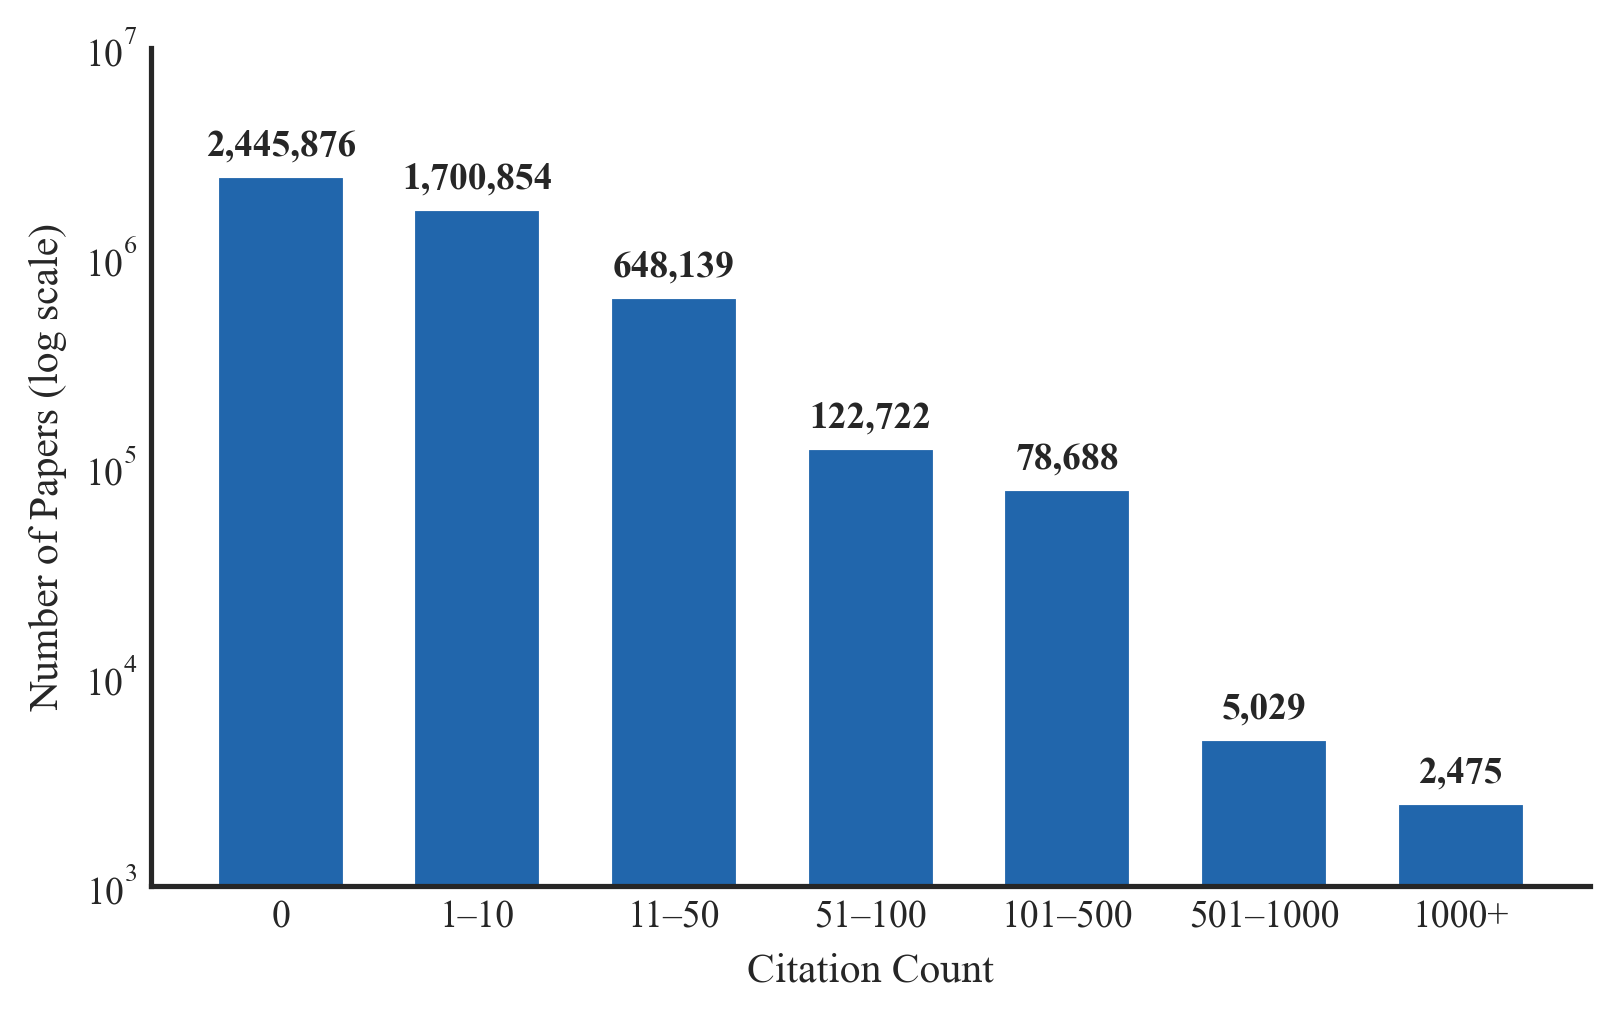
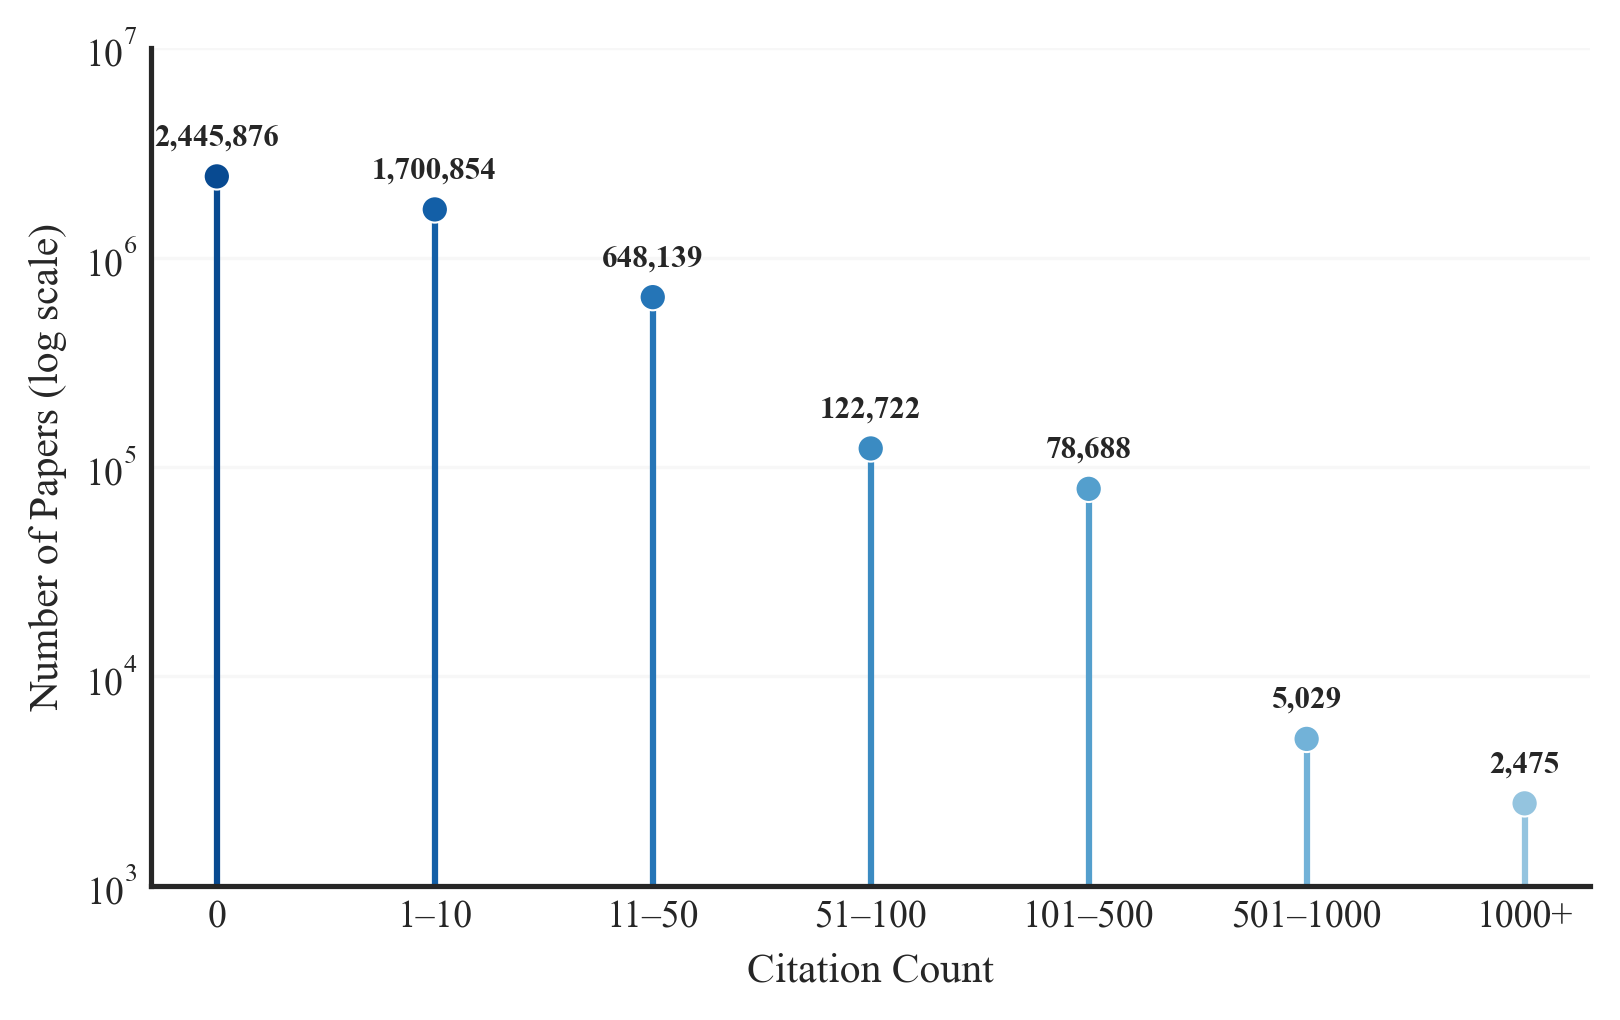
Fig 4: convert citation distribution to lollipop chart

diff --git a/papers/figures/generate_charts.py b/papers/figures/generate_charts.py
@@ -327,17 +327,37 @@ def chart6():
     ]
 
     fig, ax = plt.subplots(figsize=(5.5, 3.5))
-    bars = ax.bar(categories, counts, color='#2166ac', edgecolor='white', width=0.65)
-
+    
+    x_pos = np.arange(len(categories))
+    
+    # Color by value intensity
+    cmap = plt.cm.Blues
+    norm_vals = np.linspace(0.9, 0.4, len(categories))
+    colors = [cmap(v) for v in norm_vals]
+    
+    # Draw stems (thin vertical lines from bottom to value)
+    for i, (count, color) in enumerate(zip(counts, colors)):
+        ax.plot([i, i], [1e3, count], color=color, linewidth=1.5, zorder=2)
+    
+    # Draw dots at the top of each stem
+    ax.scatter(x_pos, counts, color=colors, s=40, zorder=3, edgecolors='white', linewidth=0.5)
+    
     ax.set_yscale('log')
     ax.set_xlabel('Citation Count')
     ax.set_ylabel('Number of Papers (log scale)')
 
-    for bar, count in zip(bars, counts):
-        ax.text(bar.get_x() + bar.get_width() / 2, bar.get_height() * 1.15,
-                f'{count:,}', ha='center', va='bottom', fontsize=9, fontweight='bold')
+    # Value labels
+    for i, count in enumerate(counts):
+        ax.text(i, count * 1.3, f'{count:,}', ha='center', va='bottom', fontsize=7.5, fontweight='bold')
 
+    ax.set_xticks(x_pos)
+    ax.set_xticklabels(categories)
     ax.set_ylim(1e3, 1e7)
+    
+    # Light grid for readability
+    ax.set_axisbelow(True)
+    ax.yaxis.grid(True, alpha=0.15, linestyle='-')
+    
     cleanup_axes(ax)
     ax.yaxis.set_minor_locator(plt.NullLocator())
     plt.tight_layout()
